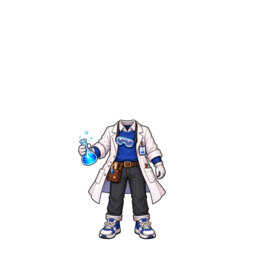
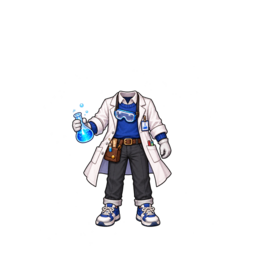
Align production outfits and add RPG variants

Changed region(s): [[0.2812, 0.3438, 0.6875, 0.9375]]

diff --git a/avatar-renderer.js b/avatar-renderer.js
@@ -53,7 +53,7 @@ window.StudyVillageAvatar=(()=>{
     'backpack':{svg:bag('backpack','#875432')},'field-satchel':{svg:bag('satchel','#745033')},'book-pack':{svg:bag('books','#315f91')},'bag-art':{svg:bag('art','#c9604d')},'bag-rocket':{src:`${RPG}bag-star-rocket-rpg-v7.png`,alt:'별 탐험가 로켓 가방'},
     'hand-sword':{src:`${RPG}hand-star-sword-rpg-v7.png`,alt:'별보석 모험가 검'},'hand-wand':{src:`${RPG}hand-starlight-wand-rpg-v8.png`,alt:'별빛 수정 지팡이'},'hand-book':{svg:hand('book','#315f91')},'hand-magnifier':{svg:hand('magnifier','#294f79')},
     'pet-chick':{svg:pet('chick','#f4d544')},'pet-cat':{svg:pet('cat','#e59a43')},'pet-owl':{svg:pet('owl','#9a6d45')},'pet-fox':{svg:pet('fox','#e47739')},'pet-dog':{svg:pet('dog','#b87946')},'pet-rabbit':{svg:pet('rabbit','#eee5df')},'pet-dragon':{src:`${RPG}pet-star-dragon-rpg-v8.png`,alt:'별무늬 꼬마 용 친구'},'pet-slime':{svg:pet('slime','#63c67a')},
-    'outfit-silver-knight':{src:`${RPG}production/outfits/silver-knight.png`,alt:'은빛 수호 기사 한벌 의상'},'outfit-star-mage-production':{src:`${RPG}production/outfits/star-mage.png`,alt:'별자리 마법사 한벌 의상'},'outfit-school-scientist':{src:`${RPG}production/outfits/school-scientist.png`,alt:'푸른빛 과학자 한벌 의상'},
+    'outfit-silver-knight':{src:`${RPG}production/outfits/silver-knight.png`,alt:'은빛 수호 기사 한벌 의상'},'outfit-star-mage-production':{src:`${RPG}production/outfits/star-mage.png`,alt:'별자리 마법사 한벌 의상'},'outfit-school-scientist':{src:`${RPG}production/outfits/school-scientist.png`,alt:'푸른빛 과학자 한벌 의상'},'outfit-forest-archer-production':{src:`${RPG}production/outfits/forest-archer.png`,alt:'초록 숲 궁수 한벌 의상'},'outfit-pirate-captain-production':{src:`${RPG}production/outfits/pirate-captain.png`,alt:'붉은 해적 선장 한벌 의상'},'outfit-moon-priest-production':{src:`${RPG}production/outfits/moon-priest.png`,alt:'달빛 사제 한벌 의상'},
     'pet-maltese-production':{src:`${RPG}production/pets/maltese.png`,alt:'하얀 말티즈'},'pet-toy-poodle-production':{src:`${RPG}production/pets/toy-poodle.png`,alt:'살구 토이푸들'},'pet-corgi-production':{src:`${RPG}production/pets/corgi.png`,alt:'통통 웰시코기'},'pet-cheese-cat-production':{src:`${RPG}production/pets/cheese-cat.png`,alt:'치즈 줄무늬 고양이'},'pet-lop-rabbit-production':{src:`${RPG}production/pets/lop-rabbit.png`,alt:'크림 롭이어 토끼'},'pet-baby-dragon-production':{src:`${RPG}production/pets/baby-dragon.png`,alt:'사파이어 꼬마 용'}
   };
   function paint(element,spec){if(!element)return;element.replaceChildren();element.classList.toggle('image-asset',!!spec?.src);element.classList.toggle('svg-asset',!!spec?.svg);if(spec?.svg)element.innerHTML=spec.svg;else if(spec?.src){const img=document.createElement('img');img.src=spec.src;img.alt=spec.alt||'';img.draggable=false;element.appendChild(img)}else element.textContent=spec?.emoji||''}

diff --git a/server/avatar-shop-pack-v3.js b/server/avatar-shop-pack-v3.js
@@ -6,6 +6,9 @@ const productionItems={
   'outfit-silver-knight':{name:'은빛 수호 기사 세트',slot:'outfit',price:65},
   'outfit-star-mage-production':{name:'별자리 마법사 세트',slot:'outfit',price:58},
   'outfit-school-scientist':{name:'푸른빛 과학자 세트',slot:'outfit',price:42},
+  'outfit-forest-archer-production':{name:'초록 숲 궁수 세트',slot:'outfit',price:52},
+  'outfit-pirate-captain-production':{name:'붉은 해적 선장 세트',slot:'outfit',price:55},
+  'outfit-moon-priest-production':{name:'달빛 사제 세트',slot:'outfit',price:58},
   'pet-maltese-production':{name:'하얀 말티즈',slot:'pet',price:35},
   'pet-toy-poodle-production':{name:'살구 토이푸들',slot:'pet',price:38},
   'pet-corgi-production':{name:'통통 웰시코기',slot:'pet',price:38},

diff --git a/avatar-basic-pack-contract-selftest.js b/avatar-basic-pack-contract-selftest.js
@@ -22,6 +22,7 @@ assert.ok(!whole.includes('character-boy-02')&&!whole.includes('character-girl-0
 assert.ok(whole.includes("id:'student-boy'")&&whole.includes("id:'student-girl'"),'only the two basic bodies must remain');
 const expected=[
   'production/outfits/silver-knight.png','production/outfits/star-mage.png','production/outfits/school-scientist.png',
+  'production/outfits/forest-archer.png','production/outfits/pirate-captain.png','production/outfits/moon-priest.png',
   'production/pets/maltese.png','production/pets/toy-poodle.png','production/pets/corgi.png',
   'production/pets/cheese-cat.png','production/pets/lop-rabbit.png','production/pets/baby-dragon.png'
 ];
